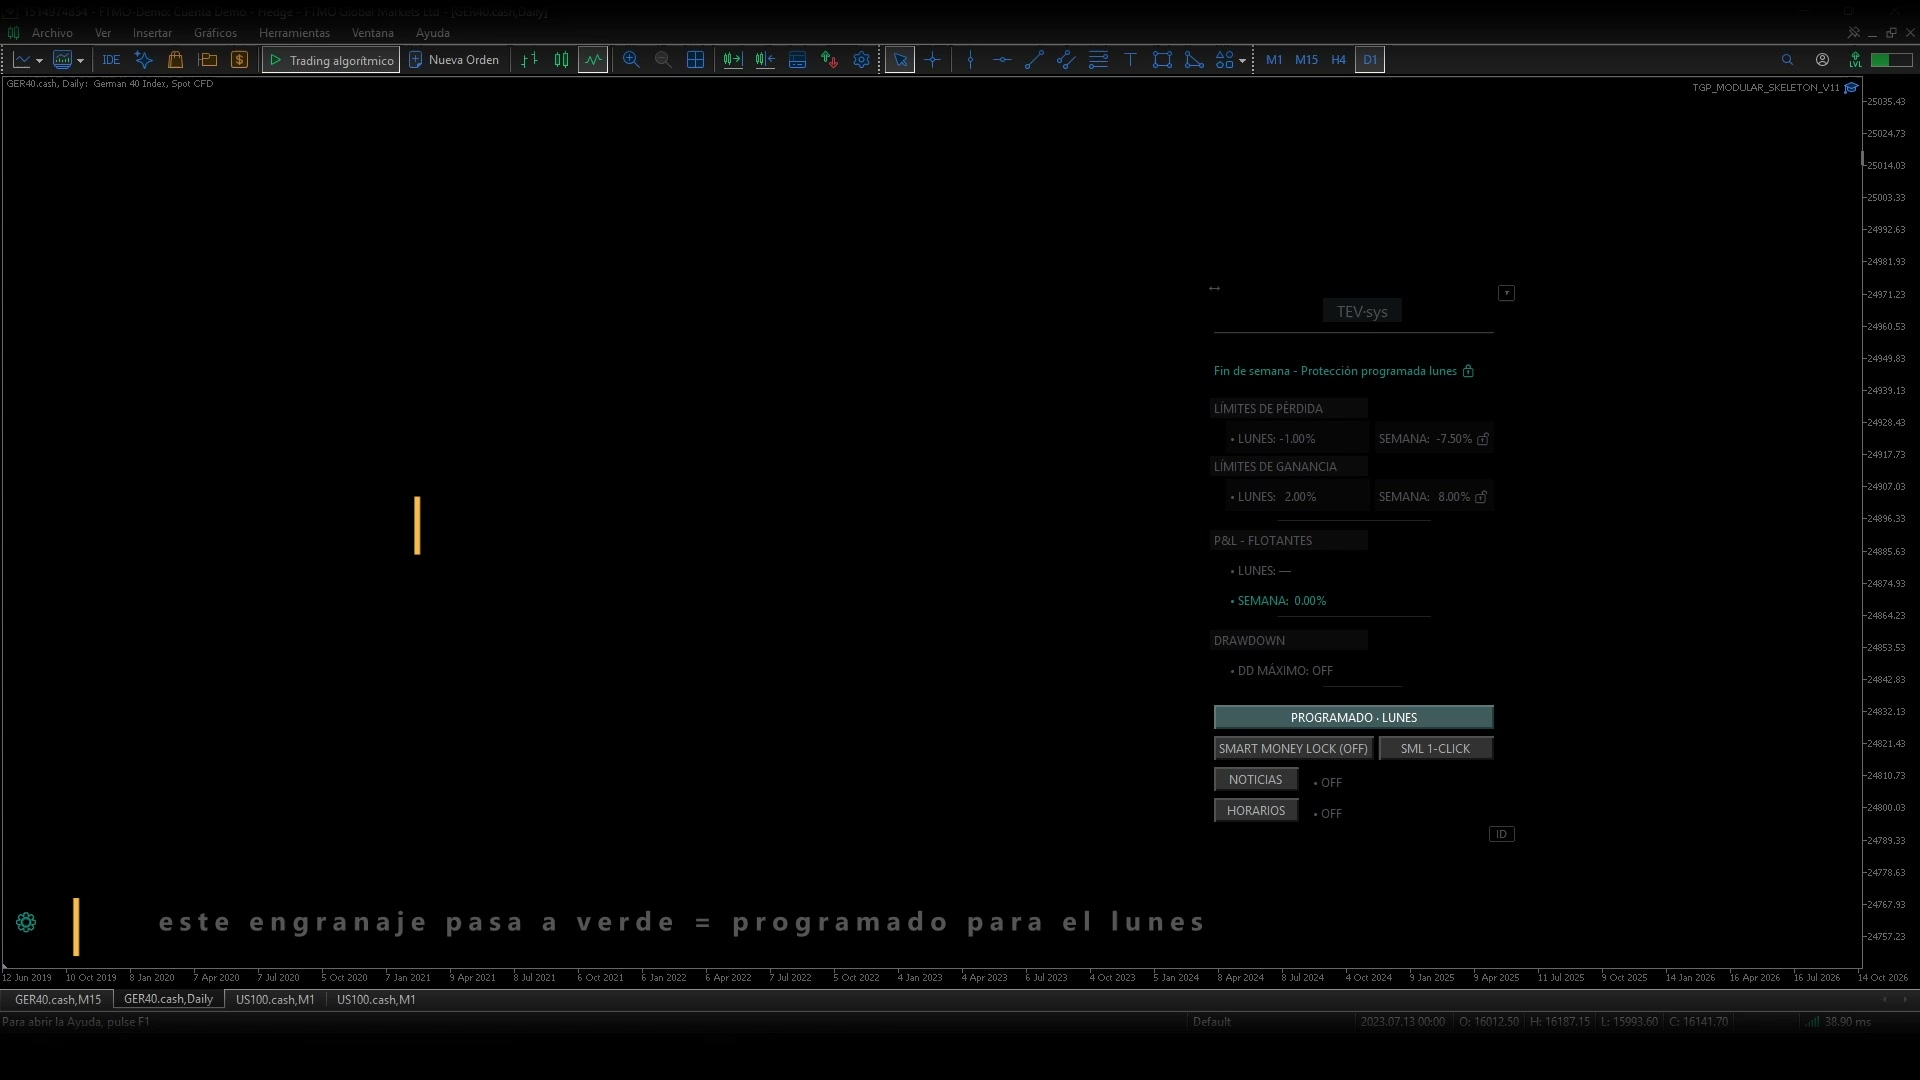
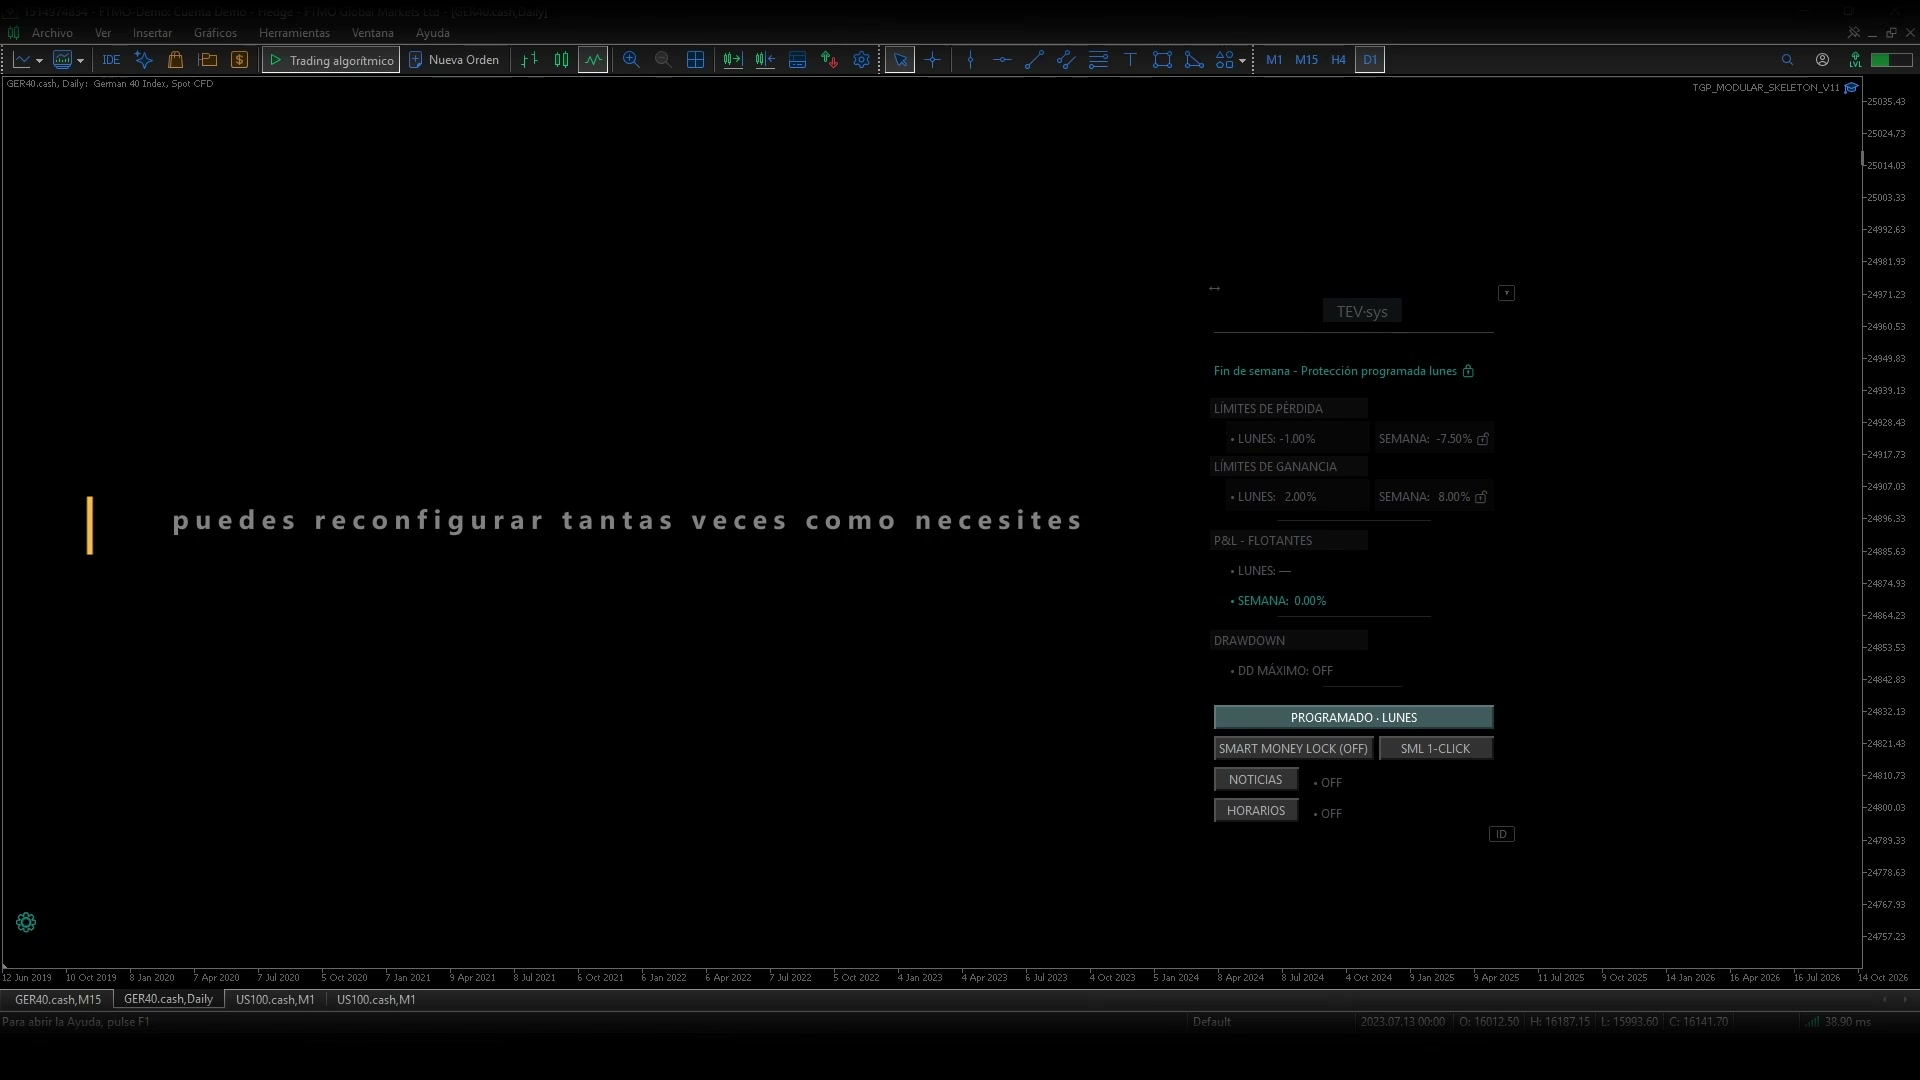
web(tevsys): publish programado lunes 1min remake with brand intro

diff --git a/docs/CHANGELOG-TEVSYS.md b/docs/CHANGELOG-TEVSYS.md
@@ -6,7 +6,7 @@ Registro completo de cambios aplicados en la landing de tevsys (base Odyssey The
 
 ## Cómo funciona — MC-CF-021 remake 1min + entrada canónica (18 oct 2026)
 
-- **Qué:** `#videoclip-programado-lunes` vuelve a MP4 real (ES|EN): `tevsys-mc-programado-lunes-1min.mp4` (~44 s) + poster mid (~40 s, panel PROGRAMADO · LUNES). Sale el still marca de oleada 1 en esa tarjeta.
+- **Qué:** `#videoclip-programado-lunes` vuelve a MP4 real (ES|EN): `tevsys-mc-programado-lunes-1min.mp4` (~44 s) + poster (~41,5 s, panel PROGRAMADO · LUNES + cierre *puedes reconfigurar tantas veces como necesites*). Sale el still marca de oleada 1 en esa tarjeta. · `?v=20261018b` poster.
 - **Craft:** entrada marca TEVSYS + *Trading Edge Verification System* → título entre barras ámbar → cuerpo GUARDAR/confirmar/engranaje (panel actual).
 - **Canon familia:** misma entrada + título ámbar en remakes siguientes; música muy floja = opcional.
 - **Commit:** `web(tevsys): publish programado lunes 1min remake with brand intro`
